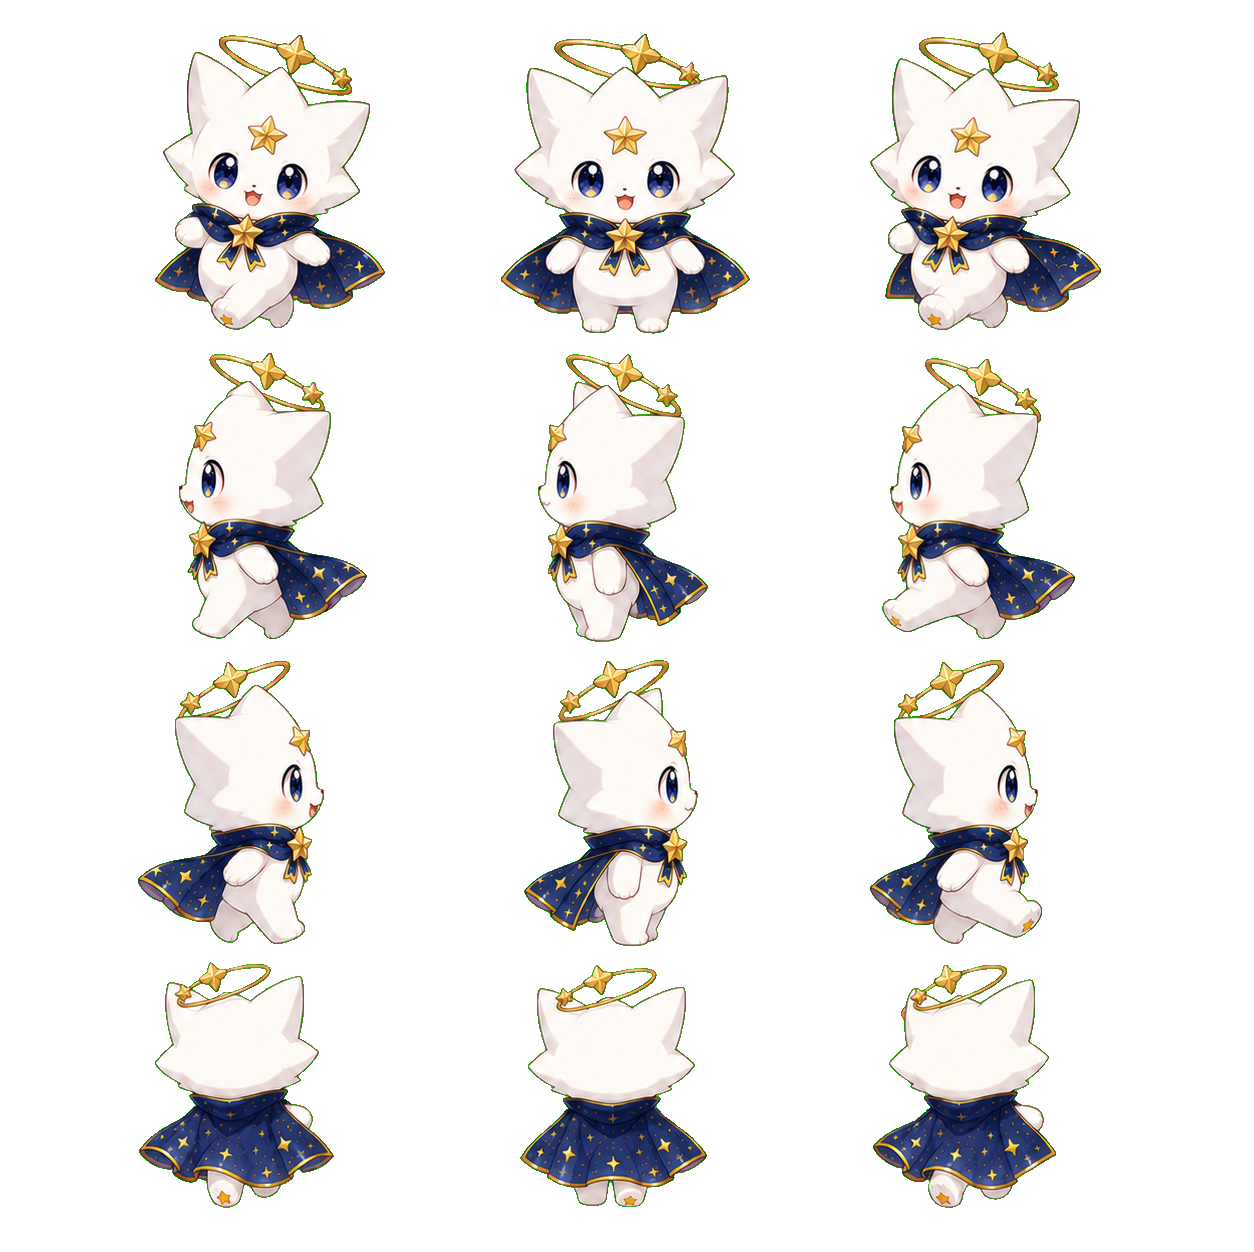
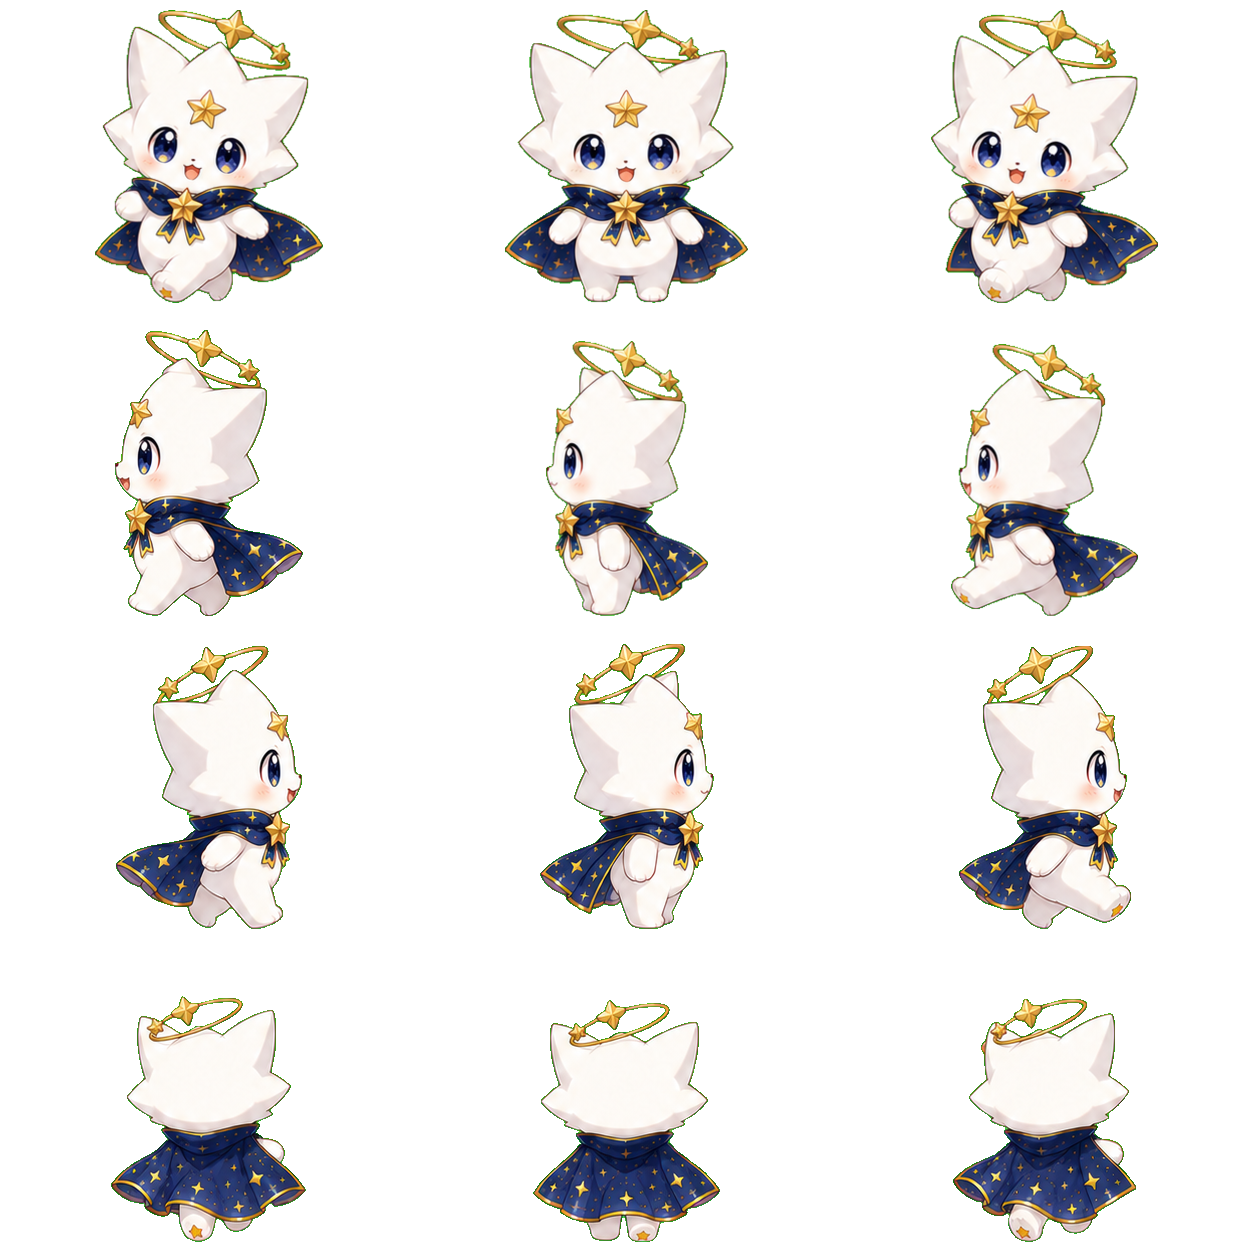
fix: マップキャラ素材と足元表示を統一

Changed region(s): [[0.6842, 0.0, 0.933, 0.9968], [0.0622, 0.0, 0.311, 0.9968], [0.4043, 0.0, 0.5909, 0.9968]]

diff --git a/src/rendering/pixi-map.js b/src/rendering/pixi-map.js
@@ -19,12 +19,12 @@ const NPC_BODY = { width: 68, height: 42, offsetY: 20 };
 const MOVE_SPEED = 230;
 const MAP_SCALE = 1.25;
 const MAP_CHARACTER_VISUALS = {
-  etokichi: { width: 123, height: 92 },
-  kuroboshi: { width: 112, height: 84 },
-  sutekichi: { width: 114, height: 85 },
-  salarymanEtokichi: { width: 118, height: 88 },
-  tatsuo: { width: 107, height: 80 },
-  aster: { width: 113, height: 85 },
+  etokichi: { width: 123, height: 92, footRatio: 270 / 313 },
+  kuroboshi: { width: 112, height: 84, footRatio: 303 / 313 },
+  sutekichi: { width: 114, height: 85, footRatio: 303 / 313 },
+  salarymanEtokichi: { width: 118, height: 88, footRatio: 303 / 313 },
+  tatsuo: { width: 107, height: 80, footRatio: 303 / 313 },
+  aster: { width: 113, height: 85, footRatio: 303 / 313 },
 };
 const MAP_CHARACTER_SHEET_URLS = {
   etokichi: ETOKICHI_MAP_SHEET_URL,
@@ -284,10 +284,11 @@ function createTileEntries(map, definition, tileTextures) {
 function createMapCharacterActor(sheetTexture, options) {
   let frames = createCharacterFrames(sheetTexture, options.label);
   const root = new Container({ label: options.label });
-  const shadow = new Graphics().ellipse(0, 18, 22, 8).fill({ color: 0x102e25, alpha: .35 });
+  const shadow = new Graphics().ellipse(0, 0, 22, 8).fill({ color: 0x102e25, alpha: .35 });
   const sprite = new Sprite({ texture: frames[1], roundPixels: true });
   sprite.anchor.set(.5);
   sprite.setSize(options.width, options.height);
+  shadow.y = getMapCharacterFootY(options);
   root.addChild(shadow, sprite);
   let frameIndex = 1;
   return {
@@ -298,6 +299,7 @@ function createMapCharacterActor(sheetTexture, options) {
     setCharacter(nextSheetTexture, visual) {
       frames = createCharacterFrames(nextSheetTexture, options.label);
       sprite.setSize(visual.width, visual.height);
+      shadow.y = getMapCharacterFootY(visual);
       sprite.texture = frames[frameIndex];
     },
     setMotion(facing, elapsedSeconds, moving) {
@@ -305,6 +307,10 @@ function createMapCharacterActor(sheetTexture, options) {
       sprite.texture = frames[frameIndex];
     },
   };
+}
+
+function getMapCharacterFootY(visual) {
+  return (visual.footRatio - .5) * visual.height;
 }
 
 function createCharacterFrames(sheetTexture, label) {

diff --git a/AGENTS.md b/AGENTS.md
@@ -1,0 +1,9 @@
+# 開発ルール
+
+## マップ用キャラクター素材
+
+- 生成AIが出力した3列×4行画像を、そのまま`assets/map-characters/<ID>/source/walk.png`へ置かない。
+- 各ポーズがセル境界をまたぐことと、歩行3コマの中心軸・足元がずれることを目視だけで判定しない。
+- 素材の追加・作り直しでは、必ず`pnpm map-character:normalize -- <入力PNG> <原本PNG> <配信用WebP>`で各ポーズを共通セルへ再配置する。
+- コミット前に`pnpm map-character:validate`を実行し、全キャラクターで境界余白・中心軸・足元の検査を通す。
+- 正規化後も、実画面で上下左右それぞれの停止・歩行を確認する。欠け、隣セルの混入、進行方向と直交する揺れがあれば採用しない。
